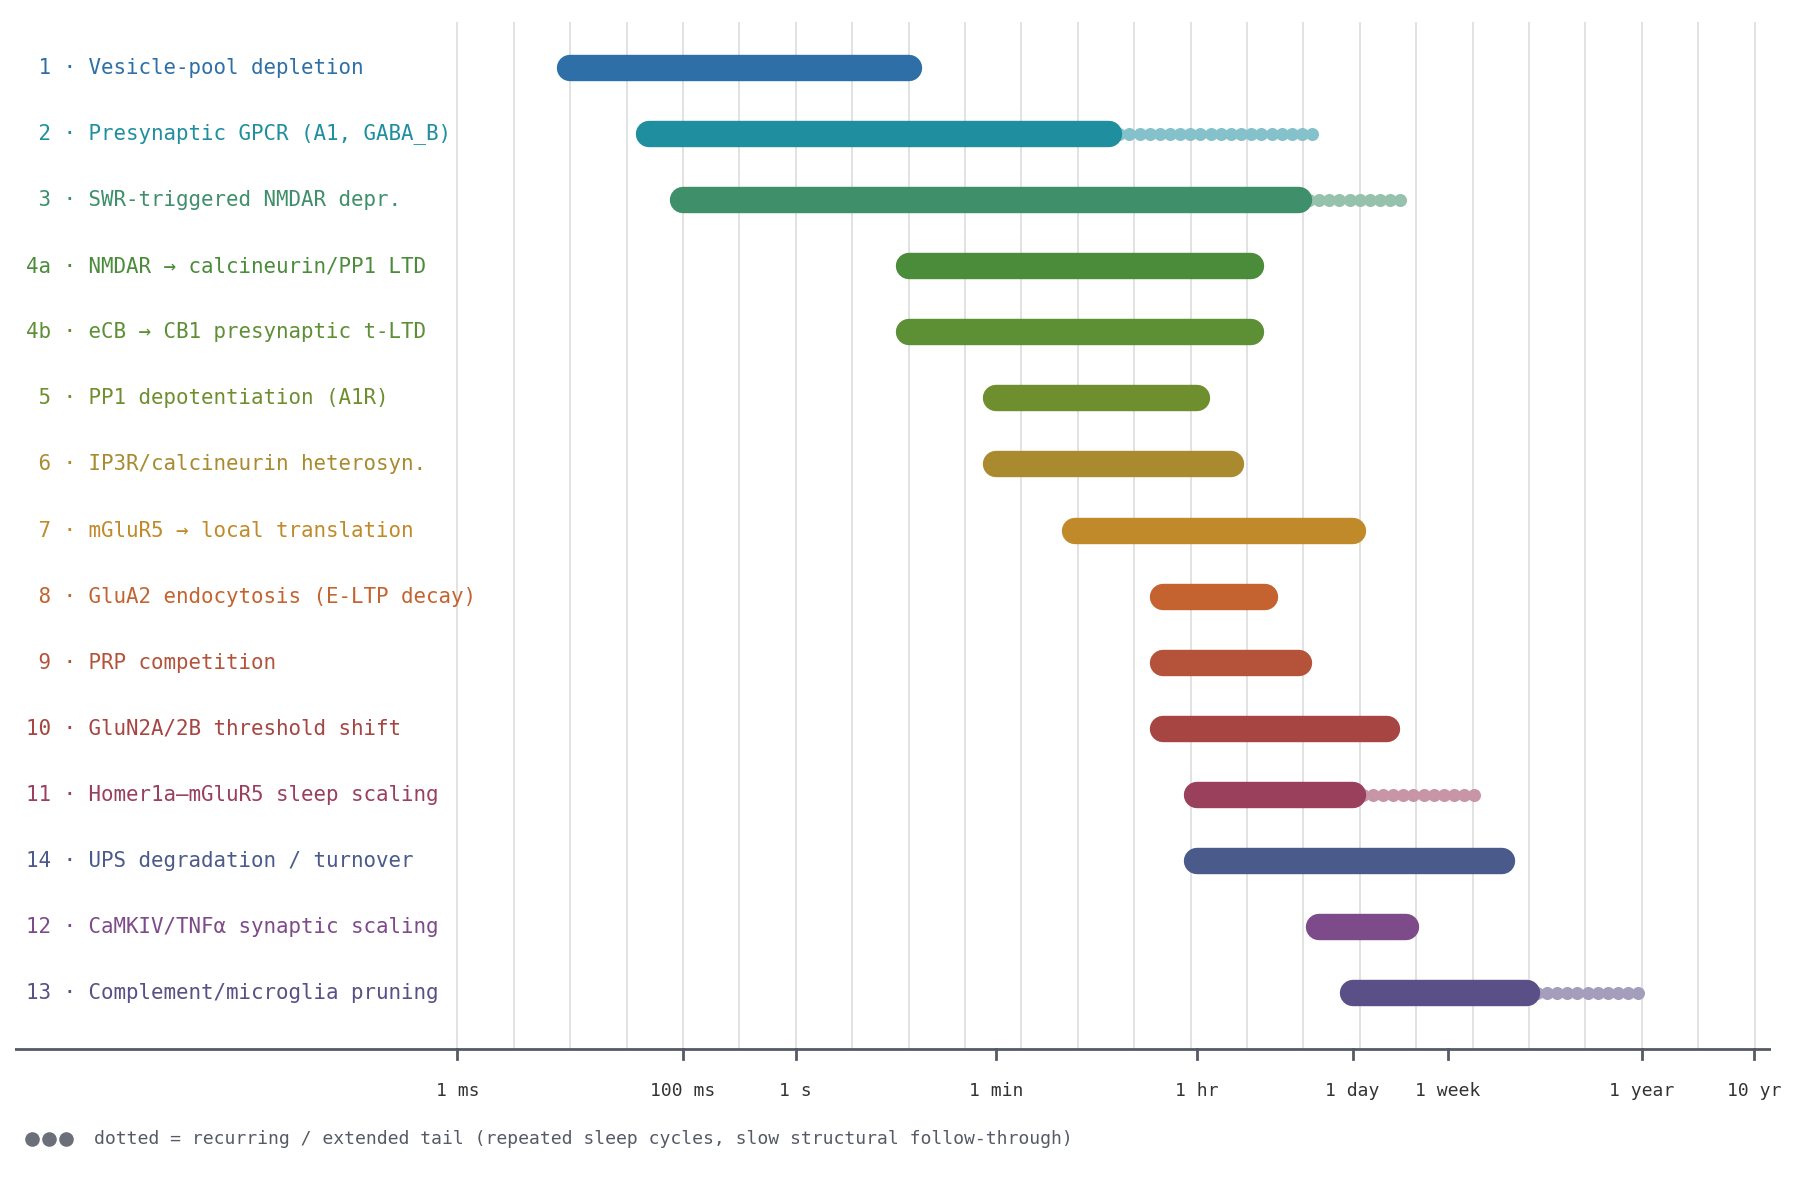
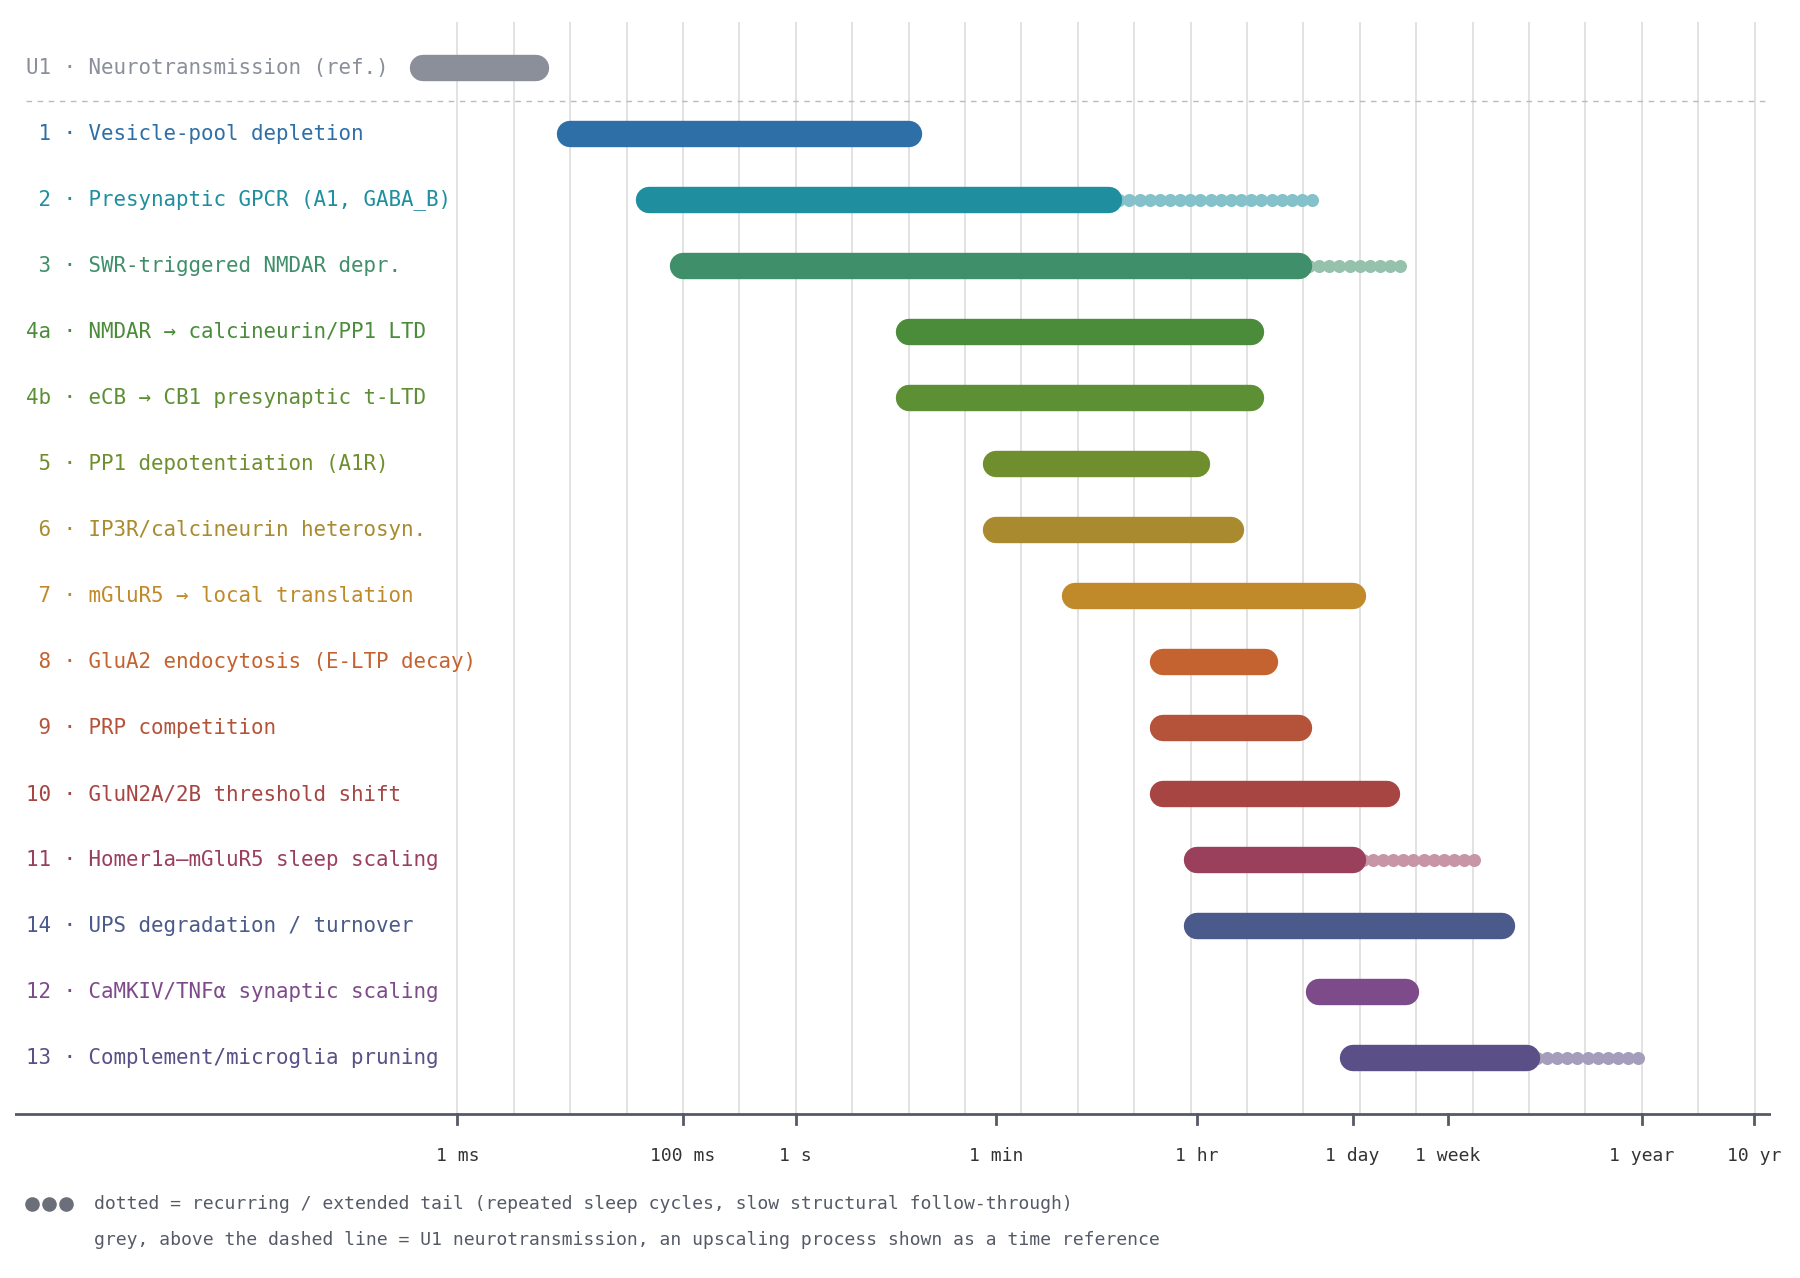
Add neurotransmission reference row to downscaling timescale figure
U1 neurotransmission (~0.5-5 ms) is drawn in grey above a dashed line as a
time reference, as in the upscaling timescale figure; caption updated.

diff --git a/figures/make_downscaling_timescale_axis.py b/figures/make_downscaling_timescale_axis.py
@@ -34,6 +34,10 @@ MECHANISMS = sorted([
     ("14", "UPS degradation / turnover",    1 * HR,  3 * WK,  None,     "#4a5a8a"),
 ], key=lambda m: (m[2], m[3], m[0]))
 
+# Upscaling process drawn on top as a time reference, as in figures/timescale_axis.png:
+# neurotransmission (AMPA/NMDA gating), ~0.5-5 ms per hippocampal_plasticity_model.md §1.
+REFERENCE = [("U1", "Neurotransmission (ref.)", 0.5 * MS, 5 * MS, None, "#8a8f99")]
+
 TICKS = [(1 * MS, "1 ms"), (100 * MS, "100 ms"), (1 * S, "1 s"), (1 * MIN, "1 min"),
          (1 * HR, "1 hr"), (1 * DAY, "1 day"), (1 * WK, "1 week"),
          (1 * YR, "1 year"), (10 * YR, "10 yr")]
@@ -46,15 +50,17 @@ def lighten(hex_colour, amount=0.45):
 
 def main(out=Path(__file__).with_name("downscaling_timescale_axis.png")):
     plt.rcParams["font.family"] = "monospace"
-    n = len(MECHANISMS)
-    fig, ax = plt.subplots(figsize=(18, 0.68 * n + 1.6), dpi=100)
+    rows = REFERENCE + MECHANISMS
+    n = len(rows)
+    fig, ax = plt.subplots(figsize=(18, 0.68 * n + 1.9), dpi=100)
     x0, x1 = np.log10(0.6 * MS), np.log10(14 * YR)
     label_x = x0 - 3.6
 
     grid = np.arange(-3, np.log10(10 * YR) + 0.01, 0.5)
     ax.vlines(grid, 0.15, n + 0.7, color="#dddddd", lw=1.2, zorder=0)
 
-    for i, (mid, label, a, b, tail, colour) in enumerate(MECHANISMS):
+    ax.hlines(n - len(REFERENCE) + 0.5, label_x, x1, color="#bbbbbb", lw=1, ls=(0, (4, 4)))
+    for i, (mid, label, a, b, tail, colour) in enumerate(rows):
         y = n - i
         ax.plot([np.log10(a), np.log10(b)], [y, y], color=colour, lw=19,
                 solid_capstyle="round", zorder=3)
@@ -75,9 +81,12 @@ def main(out=Path(__file__).with_name("downscaling_timescale_axis.png")):
     ax.text(label_x + 0.6, -1.2, "dotted = recurring / extended tail "
             "(repeated sleep cycles, slow structural follow-through)",
             fontsize=13, color="#555a66", va="center")
+    ax.text(label_x + 0.6, -1.75, "grey, above the dashed line = U1 neurotransmission, "
+            "an upscaling process shown as a time reference",
+            fontsize=13, color="#555a66", va="center")
 
     ax.set_xlim(label_x - 0.1, x1)
-    ax.set_ylim(-1.6, n + 0.8)
+    ax.set_ylim(-2.1, n + 0.8)
     ax.axis("off")
     fig.tight_layout()
     fig.savefig(out, facecolor="white")

diff --git a/hippocampal_downscaling_mechanisms.md b/hippocampal_downscaling_mechanisms.md
@@ -26,11 +26,12 @@ Only the sensor and effector levels should be modelled as mechanisms (a dataclas
 function, per `CLAUDE.md`). The rule is what a mechanism should *reproduce* when driven with the
 corresponding protocol. It is an acceptance test, not a component.
 
-![Fifteen molecular downscaling pathways on the same logarithmic time axis as Fig. 1 of the model document, from 1 ms to 10 years, ordered by onset so the bars form a descending staircase. Vesicle depletion, presynaptic GPCR inhibition and SWR-triggered NMDAR depression start in the millisecond range; NMDAR/phosphatase LTD, endocannabinoid t-LTD, depotentiation, heterosynaptic and tag-related depression start at seconds to minutes; BCM metaplasticity, sleep renormalization and synaptic scaling start at tens of minutes to hours; protein turnover runs from hours (activity-driven degradation) to weeks (basal turnover); pruning and active forgetting start at days and extend to a year.](figures/downscaling_timescale_axis.png)
+![Neurotransmission as a grey reference row, then fifteen molecular downscaling pathways on the same logarithmic time axis as Fig. 1 of the model document, from 1 ms to 10 years, ordered by onset so the bars form a descending staircase. Vesicle depletion, presynaptic GPCR inhibition and SWR-triggered NMDAR depression start in the millisecond range; NMDAR/phosphatase LTD, endocannabinoid t-LTD, depotentiation, heterosynaptic and tag-related depression start at seconds to minutes; BCM metaplasticity, sleep renormalization and synaptic scaling start at tens of minutes to hours; protein turnover runs from hours (activity-driven degradation) to weeks (basal turnover); pruning and active forgetting start at days and extend to a year.](figures/downscaling_timescale_axis.png)
 
 *Fig. D1. Downscaling mechanisms on the log time axis of model Fig. 1, ordered
 by onset (ties broken by end), as in Fig. 1. A bar's position marks onset and its
-length marks characteristic duration. Dotted tails
+length marks characteristic duration. The grey top row, U1 neurotransmission (~0.5–5 ms), is an upscaling
+process shown only as a time reference, as in the model document's timescale figure. Dotted tails
 are recurring or extended effects. Spans are order-of-magnitude summaries of the
 references below, not fitted values. Regenerate with
 `python3 figures/make_downscaling_timescale_axis.py`.*
